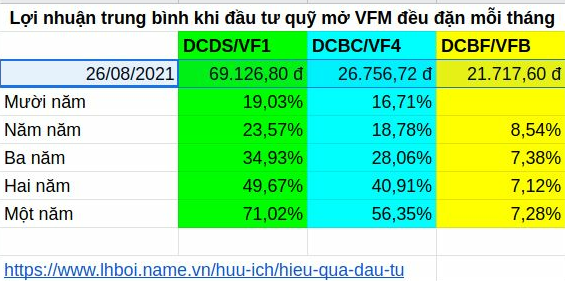
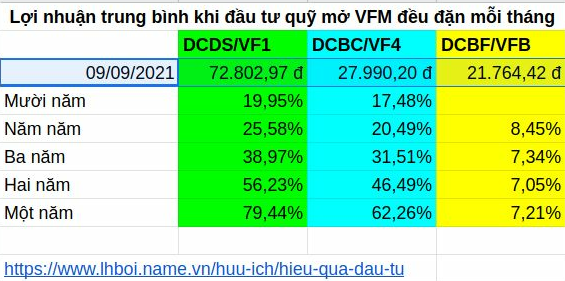
update title in sitemap

diff --git a/huu-ich/dau-tu-co-phieu/so-tk-hay-dau-tu.html b/huu-ich/dau-tu-co-phieu/so-tk-hay-dau-tu.html
@@ -284,20 +284,20 @@ data-ad-slot="3830899615">
   <h2>Kết quả thực tế</h2>
   <p>Trong bài này, tôi sẽ so sánh kết quả giữa hai phương tiện trên bằng những tính toán trên những số liệu thực tế trong một thời gian dài hơn 12 năm.
   <br>Thời điểm bắt đầu tính là đầu năm 2009. Từ ngày đó đến ngày 
-19/08/2021
+09/09/2021
 
 là hơn 12 năm.</p>
-  <p>Giả sử anh A tích luỹ tiền bằng cách gửi tiết kiệm ở ngân hàng. Bắt đầu từ đầu năm 2009, mỗi 4 tuần (mỗi năm 13 lần ứng với 13 tháng lương) anh A gửi một triệu đồng vào một sổ tiết kiệm kỳ hạn 12 tháng ở Ngân hàng Ngoại thương Việt Nam, khi đáo hạn sổ đó thì nhập lãi vào gốc để gửi tiếp kỳ mới. Số tiền anh A đã gửi vào là 165
- triệu đồng. Vào ngày 12/08/2021
- tổng giá trị gốc và lãi là <b> 252,456
- triệu đồng</b>, tính ra lợi nhuận trung bình của việc tích luỹ này là <b> 6,52%/năm
+  <p>Giả sử anh A tích luỹ tiền bằng cách gửi tiết kiệm ở ngân hàng. Bắt đầu từ đầu năm 2009, mỗi 4 tuần (mỗi năm 13 lần ứng với 13 tháng lương) anh A gửi một triệu đồng vào một sổ tiết kiệm kỳ hạn 12 tháng ở Ngân hàng Ngoại thương Việt Nam, khi đáo hạn sổ đó thì nhập lãi vào gốc để gửi tiếp kỳ mới. Số tiền anh A đã gửi vào là 166
+ triệu đồng. Vào ngày 09/09/2021
+ tổng giá trị gốc và lãi là <b> 254,429
+ triệu đồng</b>, tính ra lợi nhuận trung bình của việc tích luỹ này là <b> 6,51%/năm
 
 </b>. Mặc dù trong 12 năm qua có những lúc lãi suất tiết kiệm lên đến 14%/năm, nhưng do anh A gửi góp theo thời gian nên những khoản tiền gửi trễ sinh ra ít tiền lãi hơn những khoản tiền gửi sớm. Lợi nhuận trung bình đó đang giảm dần vì lãi suất tiết kiệm đã thấp hơn số trung bình đó từ 7 năm nay. Số liệu tính toán <a href="https://docs.google.com/spreadsheets/d/18V3oTFprwoRy8HCdTxz9IOY2x6nqvk3-k52NguxqZhc/edit?usp=sharing" target='_blank'>ở đây</a>.</p>
 
-  <p>Giả sử anh B tích luỹ tiền bằng quĩ đầu tư VF1. Bắt đầu từ đầu năm 2009 mỗi 4 tuần anh B gửi một triệu đồng vào quỹ <b>VF1</b>. Số tiền anh B đã gửi vào cũng là 165
- triệu đồng như anh A. Vào ngày 19/08/2021
- giá trị tài khoản đầu tư của anh B là <b> 544,027
- triệu đồng</b>. Lợi nhuận trung bình của việc tích luỹ này là <span class="red"><b> 17,55%/năm
+  <p>Giả sử anh B tích luỹ tiền bằng quĩ đầu tư VF1. Bắt đầu từ đầu năm 2009 mỗi 4 tuần anh B gửi một triệu đồng vào quỹ <b>VF1</b>. Số tiền anh B đã gửi vào cũng là 166
+ triệu đồng như anh A. Vào ngày 09/09/2021
+ giá trị tài khoản đầu tư của anh B là <b> 547,032
+ triệu đồng</b>. Lợi nhuận trung bình của việc tích luỹ này là <span class="red"><b> 17,47%/năm
  </b></span>.</p>
 
 <!-- AMP In-article 1 -->
@@ -329,7 +329,7 @@ data-ad-slot="3830899615">
   <p>Bảng dưới đây cho biết lợi nhuận trung bình của mọi khoản đầu tư đều đặn vào những quỹ đầu tư trong 10/5/3/2/1 năm qua.</p>
   <div><amp-img alt="Kết quả đầu tư đều đặn" src="/data/VFM.png" height="281" width="565" layout="responsive"></amp-img></a></div>
 
-  <p>Trong thực tế thì số tiền anh A có chắc chắn phải thấp hơn 252,456
+  <p>Trong thực tế thì số tiền anh A có chắc chắn phải thấp hơn 254,429
  triệu đồng vì:</p>
   <ol>
     <li>Tiền lãi khi đáo hạn sẽ bị làm tròn xuống đến hàng ngàn, và những tiền lẻ dưới chục ngàn hoặc trăm ngàn sẽ không được nhập vào gốc để sinh lời tiếp vì anh A thấy nó lẻ.</li>
@@ -337,7 +337,7 @@ data-ad-slot="3830899615">
     <li>Không dễ để nhớ gửi tiền tiết kiệm đều đặn nhưng lại rất dễ để rút tiền ra dùng khi cần mua sắm iPhone, LED TV, scooter làm cho số tiền bị hao hụt nhiều.</li>
   </ol>
 
-  <p>Ngoài ra, khi gửi ngân hàng kiểu đó thì anh A phải giữ từ 14 đến 165
+  <p>Ngoài ra, khi gửi ngân hàng kiểu đó thì anh A phải giữ từ 14 đến 166
  sổ tiết kiệm. Có thời gian tôi cũng làm như vậy (online) và tôi cảm thấy vô cùng lúng túng với hàng loạt con số trên màn hình. Trong khi đó đầu tư vào quỹ đầu tư thì mỗi người chỉ cần biết 1 vài con số.
   <br>Ngân hàng cũng có một loại tiết kiệm mà không tạo ra nhiều sổ, đó là tiết kiệm gửi góp. Tôi khuyên các bạn đừng dùng các loại tiết kiệm gửi góp của các ngân hàng. Mặc dù nó có vẻ giống như các kế hoạch đầu tư ở chỗ góp tiền vào một tài khoản, nhưng các ngân hàng không chuyên quản lý sổ tiết kiệm dài hạn và họ cũng không thích việc đó nên lãi suất dạng đó thấp hơn lãi suất 12 tháng. Tôi đã có một kinh nghiệm không vui với loại tiết kiệm gửi góp đó, sẽ kể lại trong một trang khác.</p>
 
@@ -374,10 +374,10 @@ data-ad-slot="3830899615">
   <p>Các con số lãi suất ở trên là lãi kép nên thời gian càng dài thì kết quả càng lớn. Ví dụ với lãi suất như trên, gửi mỗi 4 tuần 1 triệu đồng sau 30 năm sẽ từ 390 triệu đồng:</p>
   <span class="red">
   <ul>
-    <li>được khoảng 1,245
+    <li>được khoảng 1,244
  tỉ đồng nếu gửi ngân hàng</li>
-    <li>được khoảng 13,941
- tỉ đồng nếu gửi quỹ đầu tư, <b>bằng 11,18
+    <li>được khoảng 13,679
+ tỉ đồng nếu gửi quỹ đầu tư, <b>bằng 10,98
  lần gửi ngân hàng</b></li>
   </ul>
   </span>
@@ -435,7 +435,7 @@ data-ad-slot="3830899615">
   <br>Mọi ý kiến thảo luận xin ghi vào các trang: <a href="https://twitter.com/GiauCham/status/1132808171318173697" target="_blank">Twitter</a> hoặc <a href="https://www.facebook.com/lamgiauchacchan/posts/627783754053903" rel="nofollow" target="_blank">Facebook</a></div>
 
   <hr>
-Hit count <amp-iframe width="120" height="30" frameborder="0" 
+Hit count <amp-iframe width="120" height="30" frameborder="0"
 srcdoc="<img width='100' height='24' src='https://c.statcounter.com/12598906/0/9a8e736a/0/'>">
 </amp-iframe> by <a href="https://statcounter.com" target='_blank'>statcounter.com</a>.
   <div class="footer">

diff --git a/kinh-nghiem/may-tinh/OTT-apps.html b/kinh-nghiem/may-tinh/OTT-apps.html
@@ -231,28 +231,64 @@ data-ad-slot="5275186684">
   </div>
 
 <!-- body here -->
-  <h1>So sánh các OTT app dùng để liên lạc trên máy điện thoại</h1>
-<p>Có rất nhiều công cụ để liên lạc qua smartphone với chi phí thấp. Bảng dưới đây so sánh chức năng các công cụ đó.
-<br>Chức năng gửi lời nhắn bằng giọng nói của Viber, WhatsApp và Zalo rất tiện. Khi bạn gọi ai đó mà họ không trả lời thì bạn để lại lời nhắn bằng giọng nói để họ biết bạn cần nói về việc gì. Nhắn bằng giọng nói tiện hơn so với nhắn bằng chữ.</p>
+  <h1>So-sánh các OTT app dùng để liên-lạc trên máy điện-thoại</h1>
+<p>Khi dùng smartphone, chúng ta có rất nhiều công-cụ để liên-lạc với chi-phí thấp. Bảng dưới đây so-sánh chức-năng liên-lạc của các công-cụ đó.</p>
 <div>
 <table cellspacing="1" cellpadding="1" class="withborder">
   <tbody>
-    <tr><th></th><th colspan="2" style="text-align:center;">text</th><th colspan="2" style="text-align:center;">voice</th><th>video</th><th>dùng trên web</th></tr>
-    <tr><td></td><td>nhóm</td><td>gửi file</td><td>nhóm</td><td>lời nhắn</td><td></td><td></td></tr>
-    <tr><td>WhatsApp</td><td>✔</td><td>✔</td><td>✔</td><td>✔</td><td>✔</td><td>✔</td></tr>
-    <tr><td>Hangout</td><td>✔</td><td>✔</td><td>✔</td><td></td><td>✔</td><td>✔</td></tr>
-    <tr><td>Messenger</td><td>✔</td><td>✔</td><td>✔</td><td></td><td>✔</td><td>✔</td></tr>
-    <tr><td>Zalo</td><td>✔</td><td>✔</td><td></td><td>✔</td><td>✔</td><td>✔</td></tr>
-    <tr><td>Viber</td><td>✔</td><td>✔</td><td>✔</td><td>✔</td><td>✔</td><td></td></tr>
-    <tr><td><a href="RCS">RCS</a></td><td>✔</td><td>✔</td><td></td><td></td><td></td><td></td></tr>
-    <tr><td><a href="spam-call">TrueCaller</a></td><td></td><td></td><td></td><td></td><td></td><td></td></tr>
-    <tr><td><a href="goi-cuoc-di-dong-noi-mang">2G phone</a></td><td></td><td>✔</td><td><a href="conferencecall">✔</a></td><td>✔</td><td></td><td></td></tr>
+    <tr><th></th>
+      <th colspan="2" style="text-align:center;">text</th>
+      <th colspan="2" style="text-align:center;">voice</th>
+      <th>video</th><th>dùng trên web</th>
+    </tr>
+    <tr><td></td>
+      <td>nhóm</td><td>gửi file</td>
+      <td>nhóm</td><td>lời nhắn</td>
+      <td></td><td></td>
+    </tr>
+    <tr><td>WhatsApp</td>
+      <td>✔</td><td>✔</td><td>✔</td><td>✔</td><td>✔</td><td>✔</td>
+    </tr>
+    <tr><td>Hangout</td>
+      <td>✔</td><td>✔</td><td>✔</td><td> </td><td>✔</td><td>✔</td>
+    </tr>
+    <tr><td>Messenger</td>
+      <td>✔</td><td>✔</td><td>✔</td><td> </td><td>✔</td><td>✔</td>
+    </tr>
+    <tr><td>Zalo</td>
+      <td>✔</td><td>✔</td><td> </td><td>✔</td><td>✔</td><td>✔</td>
+    </tr>
+    <tr><td>Viber</td>
+      <td>✔</td><td>✔</td><td>✔</td><td>✔</td><td>✔</td><td> </td>
+    </tr>
+    <tr><td><a href="RCS">RCS</a></td>
+      <td>✔</td><td>✔</td><td> </td><td> </td><td> </td><td> </td>
+    </tr>
+    <tr><td><a href="goi-cuoc-di-dong-noi-mang">2G phone</a></td>
+      <td> </td><td>✔</td><td><a href="conferencecall">✔</a></td><td>✔</td><td></td><td></td>
+    </tr>
 </tbody>
 </table>
+<p>Chức-năng gửi lời-nhắn bằng giọng-nói của Viber, WhatsApp, Zalo và điện-thoại di-động rất tiện. Khi bạn gọi ai đó mà họ không trả-lời thì bạn để lại lời-nhắn bằng giọng-nói để họ biết bạn cần nói về việc gì. Nhắn bằng giọng-nói tiện hơn so với nhắn bằng chữ.
+<br>Tuy-nhiên, người Việt-Nam vẫn chưa quen với việc gửi và nghe lời-nhắn bằng giọng-nói. Các thuê-bao điện-thoại di-động đã được tự-động dùng dịch-vụ hộp-thư-thoại để nhận lời-nhắn nhưng rất nhiều người lúng-túng khi nghe nhắc để lại lời-nhắn và không để lại gì hết. Vì không biết dùng dịch-vụ tiện-ích đó, họ quay lại trách công-ty điện-thoại di-động đã bày ra dịch-vụ đó để làm cho họ tốn-tiền khi gọi mà không gặp người-cần-gặp 😢.
+<br>Không những không quen để lại lời-nhắn, người Việt-Nam cũng không quen nghe lời-nhắn, tôi đã nhiều lần gửi lời-nhắn bằng giọng-nói nhưng có-vẻ như không có người-nhận nào nghe.</p>
+<p>Điều đó cho thấy người-dùng cần biết cách dùng các công-cụ cho hiệu quả.
+<br>Khi tôi liên-lạc với một người lạ qua phương-tiện voice (thường là điện thoại di động) mà không được trả lời (rất thường bị như vậy) thì tôi sẽ gửi một lời nhắn text với nội dung "tự giới thiệu tôi là ai, tôi gọi về việc gì". Sau khi gửi lời-nhắn thì tôi chờ khoảng một ngày để họ kịp xem lời nhắn rồi mới gọi lại.
+<br>Đối với người đã quen-biết thì tôi cũng làm như vậy nhưng lời-nhắn sẽ ngắn hơn vì không cần giới thiệu tôi là ai.
+<br>Khi dùng lời-nhắn text thì tôi chú-ý viết cho ngắn-gọn và rõ-ràng. Ngắn-gọn để tôi đỡ tốn thời-gian gõ chữ trên máy điện-thoại, rõ-ràng để người-đọc đỡ tốn thời-gian đoán ý trong lời-nhắn. Và tôi cũng bớt phần chào-hỏi khi dùng lời-nhắn text. Thử tưởng-tượng một cuộc trao-đổi qua-lại lời-nhắn text giữa hai người bận-rộn A và B như sau:</p>
+<ul>
+  <li>A: Hi, chào B! Khoẻ không?</li>
+  <li>Mười lăm phút sau, B: Hi, chào A! Tao khoẻ. Mày khoẻ không?</li>
+  <li>Mười lăm phút sau, A: Khoẻ. Hồi nãy tao tính hỏi mày chuyện gì mà giờ quên rồi.</li>
+  <li>Mười lăm phút sau, B: Vậy hả?</li>  
+  <li>Mười lăm phút sau, A: Thôi, bye!</li>
+  <li>Mười lăm phút sau, B: Bye!</li>
+</ul>
+A và B là hai người bận-rộn nhưng họ bận xem Facebook hoặc bận chat với người khác chứ không phải bận việc làm-ăn. Người-làm-ăn không liên-lạc theo cách kém hiệu-quả như vậy.
 </div>
 
   <hr>
-Hit count <amp-iframe width="120" height="30" frameborder="0" 
+Hit count <amp-iframe width="120" height="30" frameborder="0"
 srcdoc="<img width='100' height='24' src='https://c.statcounter.com/12598906/0/9a8e736a/0/'>">
 </amp-iframe> by <a href="https://statcounter.com" target='_blank'>statcounter.com</a>.
   <div class="footer">

diff --git a/kinh-nghiem/may-tinh/pi-network.html b/kinh-nghiem/may-tinh/pi-network.html
@@ -322,7 +322,7 @@ data-ad-slot="3830899615">
 <p>Hiện-nay Pi đang trả-công mỗi ngày cho những người tiên-phong tham-gia và làm đại-sứ giới-thiệu Pi đến những người chưa tham-gia. Cộng-đồng càng lớn thì tiền công mỗi ngày sẽ càng giảm xuống, tiền công đã giảm từ 3,1π mỗi giờ khi Pi mới xuất-hiện xuống đến 0,1π mỗi giờ và sẽ giảm xuống zero khi có đủ một tỷ người. Ngoài việc giới-thiệu người tham-gia cộng-đồng, mỗi người còn làm việc xác-nhận tài-khoản của người mình biết. Việc xác-nhận đó sẽ tạo thành một mạng-lưới tin-cậy lẫn nhau trong cộng-đồng. Mỗi ngày người tham-gia Pi mở app trên smartphone một lần để bắt-đầu một chu-kỳ 24 giờ, số π được trả-công mỗi ngày tỷ-lệ với mạng-lưới kết-nối với người khác, càng có nhiều bạn thì càng nhận được nhiều π. Do app chỉ làm việc đếm thời-gian để nhận π nên nó hoàn-toàn không tốn lưu-lượng data, không hại sức và hại pin smartphone.</p>
 
 <h3>KYC (xác-nhận nhân-thân)</h3>
-<p>Khi tài-khoản Pi mới được tạo, nó chỉ được dùng để nhận tiền công π, chưa thể chuyển và nhận π với người khác cho tới khi được xác-nhận nhân-thân. Trong giai-đoạn 2 này, Pi Network sẽ lần lượt mời các chủ tài-khoản xác-nhận nhân-thân (KYC: Know Your Customer). Pi Network dùng app <a href="yoti.com" target='_blank'>Yoti</a> để xác-nhận nhân-thân. App Yoti sẽ chụp hình mặt người và so-sánh với các giấy-tờ chứng-minh nhân-thân do chính-quyền các nước cấp. Đối với người Việt-Nam, Yoti chỉ chấp-nhận chụp hình passport. Ở một số nước khác, Yoti chấp-nhận thẻ-căn-cước, bằng lái.</p>
+<p>Khi tài-khoản Pi mới được tạo, nó chỉ được dùng để nhận tiền công π, chưa thể chuyển và nhận π với người khác cho tới khi được xác-nhận nhân-thân. Trong giai-đoạn 2 này, Pi Network sẽ lần lượt mời các chủ tài-khoản xác-nhận nhân-thân (KYC: Know Your Customer). Pi Network dùng app <a href="https://yoti.com" target='_blank'>Yoti</a> để xác-nhận nhân-thân. App Yoti sẽ chụp hình mặt người và so-sánh với các giấy-tờ chứng-minh nhân-thân do chính-quyền các nước cấp. Đối với người Việt-Nam, Yoti chỉ chấp-nhận chụp hình passport. Ở một số nước khác, Yoti chấp-nhận thẻ-căn-cước, bằng lái.</p>
 <div class="inlineleft"><div class="right">Dòng ghi tên cuối trang passport</div><amp-img alt="name in passport" src="/images/passportname.png" width="353" height="31" layout="fixed"></amp-img></div>
 <p>Khi tạo tài-khoản Pi, bạn phải gõ tên giống như trong passport để sau này có thể được xác nhận nhân thân. Lưu ý là tên trong passport chỉ có hai mục là họ và tên cách nhau bằng hai dấu &lt;, tên và tên lót cách nhau bằng một dấu &lt;. Bạn cũng gõ tên vào app Pi theo hai mục như vậy. Ví-dụ tên tôi là Lê Hồng Bội, trong passport sẽ ghi họ tôi là LE, tên tôi là HONG BOI.
 <br>Mặc dù phải gõ tên thật vào app Pi, bạn có-thể giữ cho app Pi không hiện tên thật của bạn cho người khác thấy mà chỉ hiện tên tài-khoản.</p>

diff --git a/huu-ich/cau-chuyen/bai-hoc-pho-thong.html b/huu-ich/cau-chuyen/bai-hoc-pho-thong.html
@@ -1,7 +1,7 @@
 <!doctype html>
 <html amp lang="vi">
 <head>
-<title>Bài học phổ thông</title>
+<title>Những bài học trong chương trình phổ thông có ích không?</title>
 <meta name="description" content="Các bài học ở trường phổ thông rất cần trong cuộc sống" />
 <meta name="keywords" content="hữu ích, tài chính, cá nhân, phổ thông">
 <link rel="canonical" href="https://lehboi.github.io/huu-ich/cau-chuyen/bai-hoc-pho-thong">
@@ -230,8 +230,7 @@ https://lehboi.github.io/huu-ich/cau-chuyen/bai-hoc-pho-thong
     </amp-facebook-like>
   </div>
 
-  <h1>Bài học phổ thông</h1>
-  <h2>Những bài học trong chương trình phổ thông có ích không?</h2>
+  <h1>Những bài học trong chương trình phổ thông có ích không?</h1>
   <p>Chúng ta vẫn thường nghe được nhiều người than rằng học xong 12 năm học phổ thông, ra đời chẳng dùng được bao nhiêu kiến thức vào cuộc sống. Có đúng vậy không?</p>
   <p>Tôi cho rằng nhiều người đã quên mất những bài học phổ thông và đến khi cần dùng kiến thức đó thì không có để dùng và luôn nghĩ rằng kiến thức phổ thông <i>không dùng được</i> trong cuộc sống. Đúng ra thì kiến thức <i>không được dùng</i> trong cuộc sống, không được dùng vì không biết cách dùng.</p>
   <p>Nếu thời xưa chương trình học lịch sử được biên soạn đầy đủ, và tướng Ô Mã Nhi của Mông Cổ được học (hoặc chịu học) kỹ môn lịch sử thế giới như học sinh phổ thông Việt Nam thì có thể đã tránh bị bắt sống trên <a href="https://vi.wikipedia.org/wiki/Tr%E1%BA%ADn_B%E1%BA%A1ch_%C4%90%E1%BA%B1ng_(1288)" target='_blank'>sông Bạch Đằng</a> và sau đó bị chết. Nếu học kỹ, hẳn Ô Mã Nhi phải biết rằng sông Bạch Đằng là nơi quân xăm lăng Nam Hán và Tống đã bị tiêu diệt.</p>
@@ -301,7 +300,7 @@ data-ad-slot="3830899615">
 </amp-ad>
 
   <hr>
-Hit count <amp-iframe width="120" height="30" frameborder="0" 
+Hit count <amp-iframe width="120" height="30" frameborder="0"
 srcdoc="<img width='100' height='24' src='https://c.statcounter.com/12598906/0/9a8e736a/0/'>">
 </amp-iframe> by <a href="https://statcounter.com" target='_blank'>statcounter.com</a>.
   <div class="footer">

diff --git a/huu-ich/ke-hoach-tai-chinh/dau-tu-dai-han.html b/huu-ich/ke-hoach-tai-chinh/dau-tu-dai-han.html
@@ -1,7 +1,7 @@
 <!doctype html>
 <html amp lang="vi">
 <head>
-<title>Ghi chép và tính hiệu quả những vụ đầu tư dài hạn</title>
+<title>Ghi sổ và tính hiệu quả khi đầu tư dài hạn</title>
 <meta name="description" content="Cách ghi chép số liệu và tính hiệu quả các vụ đầu tư dài hạn: bảo hiểm nhân thọ, quỹ đầu tư, bất động sản" />
 <meta name="keywords" content="hữu ích, tài chính, cá nhân, đầu tư">
 <link rel="alternate" href="https://www.lhboi.name.vn/huu-ich/ke-hoach-tai-chinh/dau-tu-dai-han">
@@ -230,7 +230,7 @@ https://lehboi.github.io/huu-ich/ke-hoach-tai-chinh/dau-tu-dai-han
     </amp-facebook-like>
   </div>
 
-  <h1>Đầu tư dài hạn</h1>
+  <h1>Cách ghi sổ  và tính hiệu quả khi đầu tư dài hạn</h1>
   <p>Trang này hướng dẫn cách ghi chép và tính hiệu quả các khoản tích luỹ lâu năm như <a href="/huu-ich/cac-loai-bao-hiem/">bảo hiểm nhân thọ</a>, <a href="/huu-ich/dau-tu-co-phieu/quy-dau-tu">quỹ đầu tư</a>, bất động sản… Chúng ta sẽ dùng các phần mềm spreadsheet  để ghi chép và dùng hàm <a href="/kinh-nghiem/may-tinh/ham-tai-chinh">XIRR</a> để tính hiệu quả. Tôi đã dùng cách này để <a href="../hieu-qua-dau-tu">so sánh các vụ đầu tư</a> của tôi.</p>
   <p>Các bạn có thể xem và chép <a href="https://docs.google.com/spreadsheets/d/1ZwOJE5qAzLFzQoZZci4XJGP0YN0JktclOYgJIAp6As8/edit?usp=sharing" target='_blank'>file mẫu ĐTDH</a> về tài khoản Google Drive của riêng bạn để dùng. Trong file mẫu ĐTDH này có ba ví dụ về ba cách tích luỹ: bảo hiểm nhân thọ, quỹ đầu tư, bất động sản.</p>
   <p>Mỗi khoản tích luỹ (mỗi hợp đồng bảo hiểm, mỗi tài khoản quỹ đầu tư, mỗi căn nhà, mỗi miếng đất…) được ghi thành một trang trong file ĐTDH. Cột A ghi ngày giao dịch, cột B ghi số tiền giao dịch (đưa tiền vào thì ghi số âm, rút tiền ra dùng thì ghi số dương). Ô B1 chứa kết quả của hàm XIRR, công thức trong ô này cần được bao gồm tất cả các dòng ghi giao dịch bên dưới. Ô A2 là ngày hôm nay (hàm today) hoặc ngày cuối cùng dùng hết khoản tích luỹ. Các giao dịch nên ghi theo thứ tự mới trên, cũ dưới.

diff --git a/kinh-nghiem/may-tinh/vi-dien-tu.html b/kinh-nghiem/may-tinh/vi-dien-tu.html
@@ -492,7 +492,7 @@ data-ad-slot="3830899615">
 <p>Trong Tháng-Năm 2020, PayPal đã mở tính-năng <a href="https://www.businessinsider.com/paypal-adds-qr-code-payments-to-app-2020-5" target='_blank'>thanh-toán qua QR-code ở 28 nước</a> (không có Việt-Nam).</p>
 <h2>QR-Payment</h2>
 <p>Bên cạnh các hệ-thống-ví-điện-tử, còn có một dạng thanh-toán qua máy-điện-thoại-di-động khác là QR-Payment. Trong QR-Payment thì người-dùng phải có tài-khoản-ngân-hàng và trả-tiền thẳng từ số tiền trong tài-khoản-ngân-hàng, không có một ví-tiền bên cạnh tài-khoản.
-<br>Hệ-thống-thanh-toán QR phổ biến nhất ở Việt-Nam là của <a href="https://vnpayment.vnpay.vn/ve-chung-toi-vnpayment.htm" target='_blank'>VNPAY</a>.
+<br>Hệ-thống-thanh-toán QR phổ biến nhất ở Việt-Nam là của <a href="https://vnpayqr.vn/" target='_blank'>VNPAY</a>.
 <br>Các app của các ngân-hàng thường có chức-năng QR Payment. QR Payment tương đương như một cái thẻ debit liên kết với tài-khoản-ngân-hàng. Một số ngân-hàng (MSB, Vietcombank, TPBank, VPBank) tạo QR-code của tài-khoản-ngân-hàng trong app để người khác scan và gửi tiền vào tài-khoản-ngân-hàng đó nhanh chóng và tiện lợi như các ví-điện-tử ở trên. Nếu không có QR-code thì người dùng QR Payment không thể nhận tiền như ví-điện-tử.</p>
 <h2>Pi Network</h2>
 <p>Dự án <a href="pi-network">Pi Network</a> đang phát triển với mục tiêu trở thành một ví điện tử dựa trên blockchain với hàng tỷ người sử dụng trên khắp thế giới. Mục tiêu của Pi là trở thành ví điện tử thông dụng như MoMo, ZaloPay, AliPay, WeChat Pay để mua bán mọi thứ hàng-hoá và dịch-vụ trong đời sống hàng ngày cả mua-bán trực-tiếp lẫn mua-bán qua Internet.</p>

diff --git a/huu-ich/cau-chuyen/uoc-mo-thanh-ti-phu.html b/huu-ich/cau-chuyen/uoc-mo-thanh-ti-phu.html
@@ -1,7 +1,7 @@
 <!doctype html>
 <html amp lang="vi">
 <head>
-<title>Ước mơ thành tỉ phú</title>
+<title>Thực hiện ước mơ thành tỉ phú</title>
 <meta name="description" content="Hãy thực hiện ước mơ thành tỉ phú. Mọi người đều có thể trở thành tỉ phú một cách dễ dàng và chắc chắn." />
 <meta name="keywords" content="hữu ích, tài chính, cá nhân, tỉ phú">
 <link rel="canonical" href="https://lehboi.github.io/huu-ich/cau-chuyen/uoc-mo-thanh-ti-phu">
@@ -230,7 +230,7 @@ https://lehboi.github.io/huu-ich/cau-chuyen/uoc-mo-thanh-ti-phu
     </amp-facebook-like>
   </div>
 
-  <h1>Ước mơ thành tỉ phú</h1>
+  <h1>Thực hiện ước mơ thành tỉ phú</h1>
   <p><b>Làm thế nào để trở thành tỉ phú một cách chắc chắn và nhẹ nhàng?</b></p>
   <div class="flright"><amp-img alt="Tích luỹ tài sản bằng quỹ mở" src="/images/Mutual-Fund.jpg" width="500" height="400" layout="responsive"></amp-img></div>
   <p>Bạn 25 tuổi, mới vào đời với hai bàn tay trắng, lương đủ sống. Bạn ước mơ có một tỉ đồng. Làm thế nào để có?
@@ -289,7 +289,7 @@ data-ad-slot="3830899615">
 </amp-ad>
 
   <hr>
-Hit count <amp-iframe width="120" height="30" frameborder="0" 
+Hit count <amp-iframe width="120" height="30" frameborder="0"
 srcdoc="<img width='100' height='24' src='https://c.statcounter.com/12598906/0/9a8e736a/0/'>">
 </amp-iframe> by <a href="https://statcounter.com" target='_blank'>statcounter.com</a>.
   <div class="footer">

diff --git a/kinh-nghiem/may-tinh/index.html b/kinh-nghiem/may-tinh/index.html
@@ -200,10 +200,10 @@ div.footer { font-size: 80%; color: red; text-align: center; }
   <dt><a href='protect'>Bảo-vệ tài-sản-số-hoá</a></dt>
   <dt><a href='cloudstorage'>Kinh-nghiệm dùng cloud storage</a></dt>
   <dt><a href='privcloudstor'>Hướng-dẫn làm cloud storage server</a></dt>
-  <dt><a href='pi-network'>Tiền-mật-mã Pi</a></dt>
-  <dt><a href='cryptocurrency'>Tìm-hiểu Bitcoin</a></dt>
+  <dt><a href='pi-network'>Tiền-điện-tử Pi</a></dt>
+  <dt><a href='cryptocurrency'>Hỏi đáp về Cryptocurrency</a></dt>
   <dt><a href="/kinh-nghiem/may-tinh/vi-dien-tu">Nhận-xét các ví-điện-tử</a></dt>
-  <dt><a href='gnucash'>GnuCash</a></dt>
+  <dt><a href='gnucash'>Dùng GnuCash để quản lý tài sản gia đình</a></dt>
   <dt><a href='ham-tai-chinh'>Các phép-tính-tài-chính cần biết</a></dt>
   <dt><a href='roaming'>Wi-Fi Roaming</a></dt>
   <dt><a href='tien-ich-di-dong'>Tiện-ích-di-động</a></dt>
@@ -217,7 +217,7 @@ div.footer { font-size: 80%; color: red; text-align: center; }
   <dt><a href='raspberrypi'>RaspberryPi</a></dt>
   <dt><a href='pin-lithium-ion'>Pin Lithium Ion</a></dt>
   <dt><a href='in-sach-nho'>In sách nhỏ</a></dt>
-  <dt><a href='linux'>Linux</a></dt>
+  <dt><a href='linux'>Vài kinh nghiệm dùng máy Linux</a></dt>
   <dt><a href='toys'>Home server cũ</a></dt>
   <dt><a href='oss'>Phần-mềm-mã-nguồn-mở</a></dt>
   <dt><a href='phan-mem-tu-do'>Phần-mềm-tự-do</a></dt>

diff --git a/y-kien/index.html b/y-kien/index.html
@@ -198,16 +198,16 @@ div.footer { font-size: 80%; color: red; text-align: center; }
   <h1>Những suy-nghĩ về các vấn-đề trong xã-hội</h1>
 <dl>
   <dt><a href='/y-kien/su-giau-co'>Các nguồn gốc của sự giàu có</a></dt>
-  <dt><a href='/y-kien/bat-ca-hai-tay'>Bắt cá hai tay</a></dt>
+  <dt><a href='/y-kien/bat-ca-hai-tay'>Bắt cá hai tay nghĩa là gì?</a></dt>
   <dt><a href='/y-kien/xa-hoi-thong-tin'>Viễn cảnh: Một xã hội thông tin ở Việt Nam</a></dt>
   <dt><a href='/y-kien/bi-mat-doi-tu'>Bàn về Bí-mật đời-tư</a></dt>
   <dt><a href='/y-kien/dung-hang-viet-nam'>Dùng hàng Việt</a></dt>
   <dt><a href='/y-kien/muc-hay-den'>Gần mực thì đen, gần đèn thì sáng</a></dt>
   <dt><a href='/y-kien/thanh-ngu-ve-tien'>Thành ngữ về tiền</a></dt>
-  <dt><a href='/y-kien/tien-va-mau'>Tiền và Máu</a></dt>
+  <dt><a href='/y-kien/tien-va-mau'>Tiền và Máu trong cuộc sống</a></dt>
   <dt><a href='/y-kien/gia-tra'>Thế giới đầy những giả trá</a></dt>
-  <dt><a href='/y-kien/nhung-cai-nem'>Những cái nêm</a></dt>
-  <dt><a href='/y-kien/khac-nguoi'>Khác người</a></dt>
+  <dt><a href='/y-kien/nhung-cai-nem'>Những cái nêm trên đường phố</a></dt>
+  <dt><a href='/y-kien/khac-nguoi'>Cư xử khác người là tốt hay xấu?</a></dt>
   <dt><a href='/y-kien/da-len-bao'>Những ý-kiến đã đăng báo</a></dt>
 </dl>
   <hr>

diff --git a/huu-ich/cau-chuyen/bat-dau-dau-tu.html b/huu-ich/cau-chuyen/bat-dau-dau-tu.html
@@ -231,7 +231,7 @@ https://lehboi.github.io/huu-ich/cau-chuyen/bat-dau-dau-tu
   </div>
 
 <!-- body here -->
-  <h1>Bắt đầu đầu tư</h1>
+  <h1>Bắt đầu đầu tư càng sớm càng tốt</h1>
   Dịch từ bài <a href="http://www.getrichslowly.org/blog/2014/12/10/how-to-take-your-first-steps-investing/" target='_blank'>How to take your first steps investing</a>.
   <hr>
   <p>Điều quan sát được rõ ràng nhất trong bài viết gần đây liên quan đến việc <a href="http://www.getrichslowly.org/blog/2014/12/04/what-is-your-investment-strategy/" target='_blank'>điều tra về cách mọi người đầu tư</a> là trên 70% số người tham gia điều tra mà chưa trải qua một cuộc suy thoái thì không đầu tư một chút nào hết. Cuộc khảo sát đã không ghi lại độ tuổi của người trả lời, nhưng cũng khá chắc để kết luận rằng những người chưa trải qua một cuộc suy thoái ở độ tuổi vào giữa hai mươi và ba mươi.</p>

diff --git a/huu-ich/ke-hoach-tai-chinh/index.html b/huu-ich/ke-hoach-tai-chinh/index.html
@@ -1,7 +1,7 @@
 <!doctype html>
 <html amp lang="vi">
 <head>
-<title>Lập kế hoạch tài chính</title>
+<title>Lập kế hoạch tài chính gia đình</title>
 <meta name="description" content="Hướng dẫn lập kế hoạch tài chính gia đình. Công cụ giải quyết nhiều bài toán khó trong tài chính gia đình." />
 <meta name="keywords" content="hữu ích, kế hoạch, tài chính, gia đình, tích luỹ, hưu trí, tuổi già">
 <link rel="alternate" href="https://www.lhboi.name.vn/huu-ich/ke-hoach-tai-chinh/">
@@ -317,7 +317,7 @@ data-ad-slot="3830899615">
 </amp-ad>
 
   <hr>
-Hit count <amp-iframe width="120" height="30" frameborder="0" 
+Hit count <amp-iframe width="120" height="30" frameborder="0"
 srcdoc="<img width='100' height='24' src='https://c.statcounter.com/12598906/0/9a8e736a/0/'>">
 </amp-iframe> by <a href="https://statcounter.com" target='_blank'>statcounter.com</a>.
   <div class="footer">

diff --git a/kinh-nghiem/chu-viet/index.html b/kinh-nghiem/chu-viet/index.html
@@ -198,9 +198,9 @@ div.footer { font-size: 80%; color: red; text-align: center; }
   <h1>Kinh-nghiệm dùng chữ Việt trên máy-tính</h1>
 <dl>
   <dt><a href='/kinh-nghiem/chu-viet/ghi-dau-thanh-1'>Vị-trí dấu-thanh</a></dt>
-  <dt><a href='/kinh-nghiem/chu-viet/unicode'>Unicode</a></dt>
-  <dt><a href='/kinh-nghiem/chu-viet/utf-8'>UTF-8</a></dt>
-  <dt><a href='/kinh-nghiem/chu-viet/web'>Web Việt</a></dt>
+  <dt><a href='/kinh-nghiem/chu-viet/unicode'>Chữ Việt trong Unicode</a></dt>
+  <dt><a href='/kinh-nghiem/chu-viet/utf-8'>Chữ Việt và UTF-8</a></dt>
+  <dt><a href='/kinh-nghiem/chu-viet/web'>Web Chữ Việt</a></dt>
 </dl>
   <hr>
 Hit count <amp-iframe width="120" height="30" frameborder="0"
